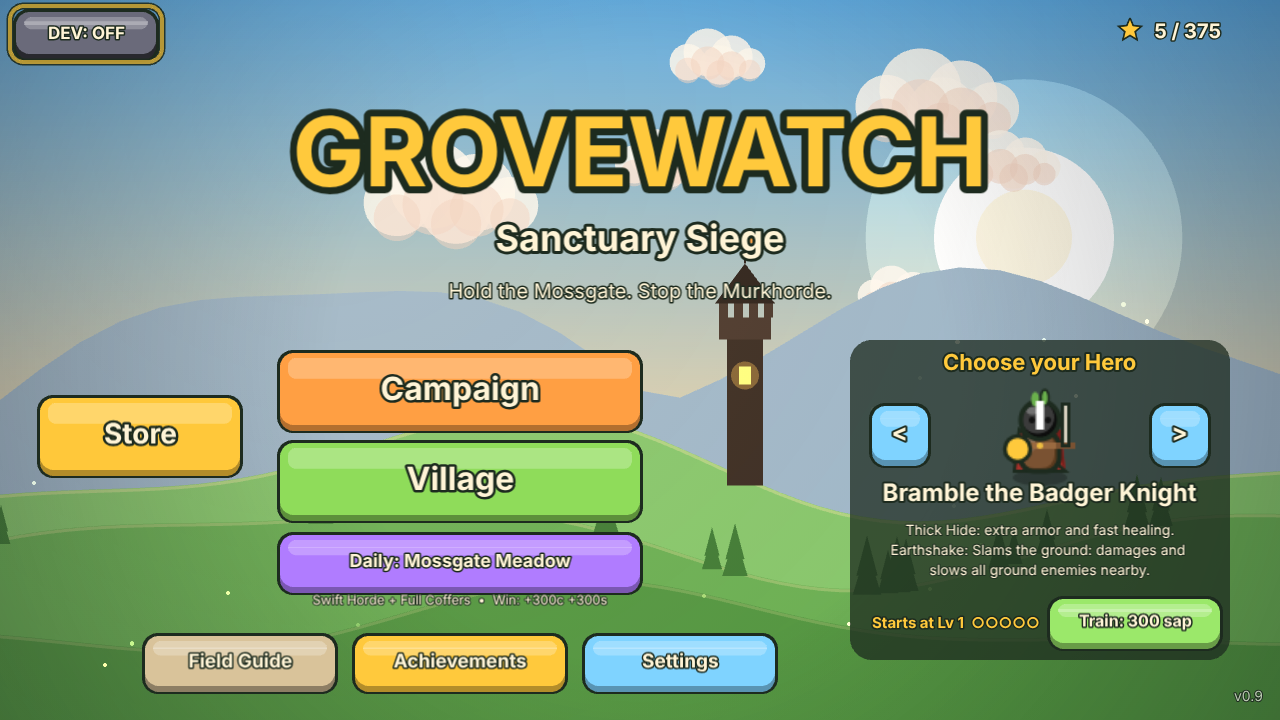
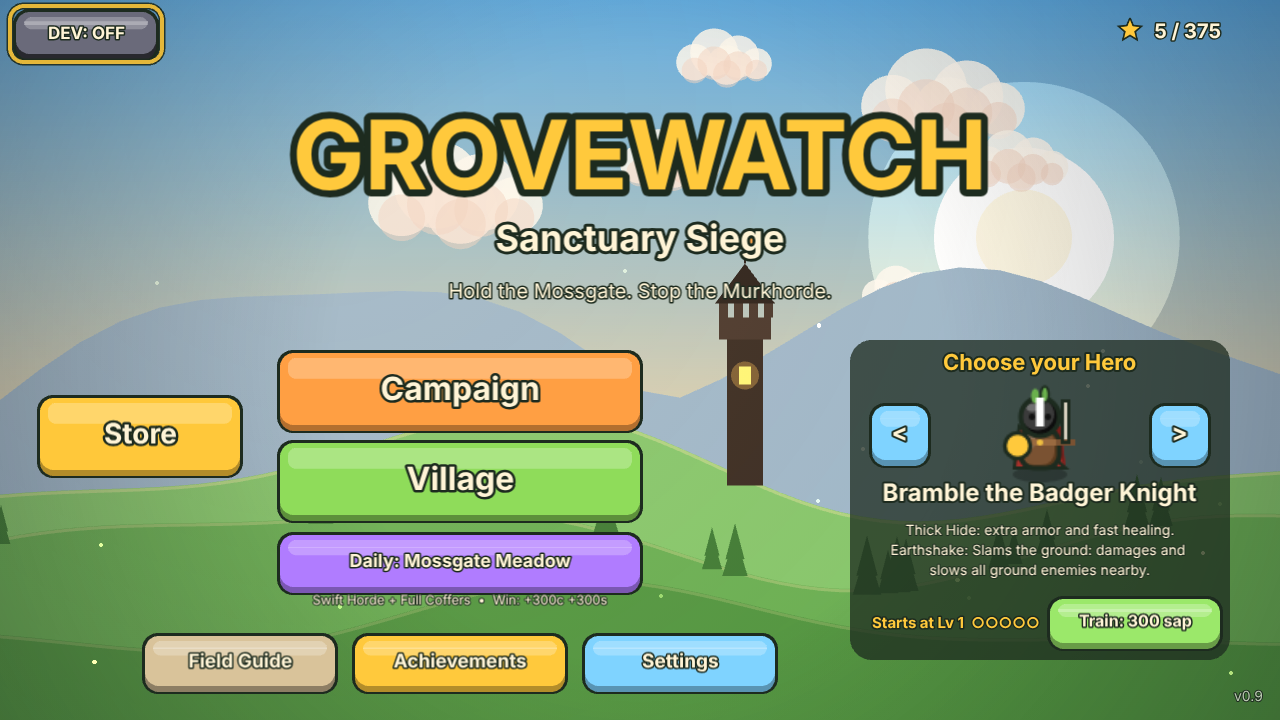
Fix F6: consistency pass for phone readability
Button labels use pf() and fit inside their buttons (also after setText);
menu hero blurb and rank line grow on phones but fit their panel; settings
footnotes use pf. New phone-tour script screenshots menu, map, battles and
settings at 740x360.

Claude-Session: https://claude.ai/code/session_014CFVfVpVtuJQnsGzjrGSnn

diff --git a/game/src/scenes/MenuScene.ts b/game/src/scenes/MenuScene.ts
@@ -4,7 +4,7 @@ import { addLighting } from '../ui/lighting';
 import { devOn, setDev } from '../systems/dev';
 import Phaser from 'phaser';
 import { motion } from '../ui/motion';
-import { pf } from '../ui/touch';
+import { fitWidth, pf } from '../ui/touch';
 import { music } from '../systems/music';
 import { themeById } from '../data/musicThemes';
 import { LEVELS, isLevelUnlocked, totalStars } from '../data/levels';
@@ -132,10 +132,10 @@ export class MenuScene extends Phaser.Scene {
     this.tweens.add({ targets: sprite, y: sprite.y - 6, yoyo: true, repeat: -1, duration: 800, ease: 'Sine.easeInOut' });
     const name = this.add.text(x, y + 22, '', textStyle(24)).setOrigin(0.5);
     const info = this.add
-      .text(x, y + 80, '', { ...textStyle(14, TEXT.cream, false), align: 'center', wordWrap: { width: 340 } })
+      .text(x, y + 80, '', { ...textStyle(pf(14), TEXT.cream, false), align: 'center', wordWrap: { width: 340 } })
       .setOrigin(0.5);
 
-    const rankText = this.add.text(x - 170, y + 152, '', textStyle(15, TEXT.gold)).setOrigin(0, 0.5);
+    const rankText = this.add.text(x - 170, y + 152, '', textStyle(pf(15), TEXT.gold)).setOrigin(0, 0.5);
     const trainBtn = new Button(this, x + 95, y + 152, 'Train', {
       width: 170,
       height: 46,
@@ -163,10 +163,17 @@ export class MenuScene extends Phaser.Scene {
       sprite.setTexture(`hero_${h.id}`);
       name.setText(`${h.name} the ${h.title}`);
       info.setText(`${h.passive.text}\n${h.active.name}: ${h.active.text}`);
+      // as big as the phone size allows, stepping down until it fits between the name and the Train row
+      for (let size = pf(14); size >= 13; size--) {
+        info.setFontSize(size);
+        if (info.height <= 66) break;
+      }
       const s = loadSave();
       const rank = s.heroRanks[h.id] ?? 0;
       const cost = heroTrainCost(rank);
       rankText.setText(`Starts at Lv ${Math.min(HERO_MAX_LEVEL, rank + 1)}  ${'●'.repeat(rank)}${'○'.repeat(Math.max(0, 5 - rank))}`);
+      rankText.setScale(1);
+      fitWidth(rankText, 172);
       trainBtn.label.setText(cost === null ? 'Max rank' : `Train: ${cost} sap`);
       trainBtn.setEnabled(cost !== null && (s.village?.glowsap ?? 600) >= cost);
     };

diff --git a/game/src/ui/Button.ts b/game/src/ui/Button.ts
@@ -1,7 +1,7 @@
 import Phaser from 'phaser';
 import { C, textStyle } from './theme';
 import { sfx } from '../systems/audio';
-import { padHit } from './touch';
+import { fitWidth, padHit, pf } from './touch';
 
 export interface ButtonOpts {
   width?: number;
@@ -26,9 +26,17 @@ export class Button extends Phaser.GameObjects.Container {
     this.bh = opts.height ?? 56;
     this.color = opts.color ?? C.leaf;
     this.bg = scene.add.graphics();
-    this.label = scene.add.text(0, -2, text, textStyle(opts.fontSize ?? 24)).setOrigin(0.5);
+    // small labels grow on phones (pf), and every label shrinks to fit inside the button, now and after setText
+    this.label = scene.add.text(0, -2, text, textStyle(pf(opts.fontSize ?? 24))).setOrigin(0.5);
+    const setText = this.label.setText.bind(this.label);
+    this.label.setText = ((value: string | string[]) => {
+      setText(value);
+      this.fitLabel();
+      return this.label;
+    }) as typeof this.label.setText;
     this.add([this.bg, this.label]);
     this.draw();
+    this.fitLabel();
     this.setSize(this.bw, this.bh);
     this.setInteractive({ useHandCursor: true });
     padHit(this);
@@ -43,6 +51,11 @@ export class Button extends Phaser.GameObjects.Container {
     this.on('pointerover', () => this.enabled && this.setScale(1.04));
     this.on('pointerout', () => this.setScale(1));
     scene.add.existing(this);
+  }
+
+  private fitLabel(): void {
+    this.label.setScale(1);
+    fitWidth(this.label, this.bw - 16);
   }
 
   setEnabled(on: boolean): this {

diff --git a/game/src/scenes/SettingsScene.ts b/game/src/scenes/SettingsScene.ts
@@ -7,7 +7,7 @@ import { loadSave, resetProgress, writeSave } from '../systems/save';
 import { sfx } from '../systems/audio';
 import { Button } from '../ui/Button';
 import { C, GAME_H, GAME_W, TEXT, textStyle } from '../ui/theme';
-import { padHit } from '../ui/touch';
+import { padHit, pf } from '../ui/touch';
 import { glossPanel, screenBackdrop } from '../ui/panels';
 
 export class SettingsScene extends Phaser.Scene {
@@ -215,10 +215,10 @@ export class SettingsScene extends Phaser.Scene {
         armed = false;
       },
     });
-    this.add.text(GAME_W / 2, 588, 'Reset clears stars, village, heroes, army and Field Guide. Settings are kept.', textStyle(14, TEXT.dim, false)).setOrigin(0.5);
+    this.add.text(GAME_W / 2, 588, 'Reset clears stars, village, heroes, army and Field Guide. Settings are kept.', textStyle(pf(14), TEXT.dim, false)).setOrigin(0.5);
 
     this.add
-      .text(GAME_W / 2, 664, 'Grovewatch: Sanctuary Siege  •  All art and sound are generated in code.', textStyle(15, TEXT.dim, false))
+      .text(GAME_W / 2, 664, 'Grovewatch: Sanctuary Siege  •  All art and sound are generated in code.', textStyle(pf(15), TEXT.dim, false))
       .setOrigin(0.5);
   }
 }

diff --git a/game/PROGRESS.md b/game/PROGRESS.md
@@ -2053,7 +2053,7 @@ Iteration counter: **316** (feature loop stopped at the user's request; design l
 ## Fix Loop (requested by the user after the skill reviews)
 **Goal: apply every fix from the design critique, accessibility audit and game-floors scoring, one per iteration, then resume the Design Backlog.** No new levels, regions, enemies or features. Every 5th fix iteration is a consistency pass (palette, outline weight, phone readability at 740x360). Screenshots go to `screenshots/fix-<n>-*.png`.
 
-Fix counter: **F5**
+Fix counter: **F6**
 
 ### Fix Done
 - **F1 (A1) Keyboard play everywhere.** New scene plugin `src/ui/keyNav.ts` (registered in `main.ts`, so every scene gets it). Tab / Shift+Tab and the arrow keys move a pulsing gold focus ring (ink-backed) between every reachable control: anything with a hand cursor whose centre a tap would actually hit, so controls under a modal blocker are skipped. Enter presses the focused control (Space too, in scenes that don't bind Space). Esc presses a Back / Close control in scenes without an Esc key of their own. Only the top-most running scene with controls takes the keys, and a panel that opens takes the focus on its biggest new control (map node → level card → Replay). Pure logic in `src/systems/focusNav.ts` (reading order, directional nearest with sideways penalty, back-label match) with 7 tests in `tests/focusNav.test.ts`. `scripts/keynav-check.mjs` plays menu → Campaign → level 1 → Replay → battle with keys only. Screenshots: `fix-1-menu.png`, `fix-1-map.png`, `fix-1-card.png`, `fix-1-battle.png`.
@@ -2071,8 +2071,15 @@ Fix counter: **F5**
 
   Grass tufts now spill over the verges: small fans of curved blades every ~46 px, leaning toward the road on side verges and skipped where another road runs. They are left off snow, lava, crystal, clockwork and abyss floors. New pure helper `roadEdgeSpots` in `systems/path.ts` (spots beside a road with outward normals) with 3 tests. Before/after: `fix-5-before-*` and `fix-5-after-*`.
 
+- **F6 Consistency pass (phone readability after F1–F5).** New `scripts/phone-tour.mjs` takes 740×360 touch screenshots of the menu, world map, two battles (levels 1 and 34) and settings. It restarts the same scene correctly when asked for the same scene again. Fixes:
+  - Every `Button` label now uses `pf()` (small labels grow on phones) and shrinks to fit inside its button, at creation and after any later `label.setText`.
+  - The menu's hero blurb uses the phone size but steps down until it fits between the name and the Train row (it was 14 px, about 7 CSS px on a phone).
+  - The "Starts at Lv" rank line uses `pf(15)` and fits before the Train button.
+  - The settings reset note and credits line use `pf`.
+
+  The palette and outlines of the new ground and roads are consistent across the meadow, frost, tidepool, gale and abyss themes (checked in F4/F5 shots). Keyboard, hit-size, test and build checks still pass. Before/after: `fix-6-before-*` and `fix-6-after-*`, plus `fix-6-desktop-menu.png`.
+
 ### Fix Backlog (ranked)
-0. **Consistency pass** (was due at F5; run it as F6): palette, outline weight, phone readability at 740×360 across the menu, map, battle HUD and cards after F1–F5.
 1. **F3** Contact shadows under trees, standing stones and flowers.
 2. **F4** Floor outline rule: interactive items (paths, slots, ponds) ink-outlined; decoration a darker tint only.
 3. **F5** The wave / boss banner no longer covers path entries (move up, or fade after 1.5 s).
